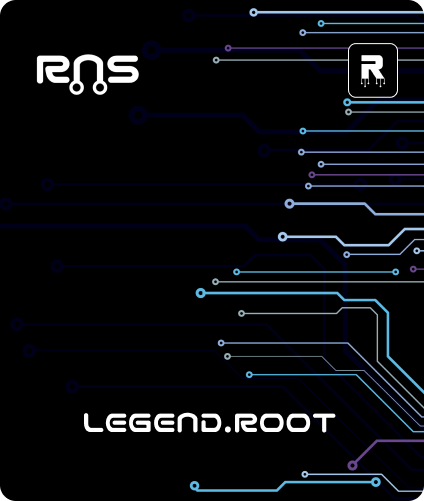
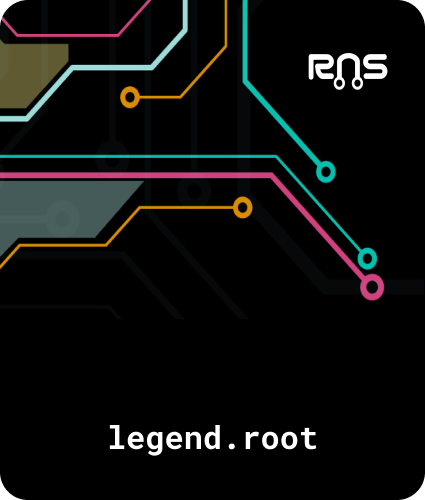
implement v4 changes

diff --git a/src/app/components/Sections/SendAndReceive/Transaction.tsx b/src/app/components/Sections/SendAndReceive/Transaction.tsx
@@ -29,7 +29,7 @@ import {
 
 export const Transaction: React.FC = () => {
   const [amount, setAmount] = useState("");
-  const [futurePass, setFuturePass] = useState("Legend.ROOT");
+  const [futurePass, setFuturePass] = useState("legend.root");
 
   return (
     <PageSection>
@@ -77,6 +77,7 @@ export const Transaction: React.FC = () => {
                   </InputPlaceholder>
                   <InputField
                     id="FuturePass"
+                    disabled // remove this if wanted the form to be interactive
                     type="text"
                     placeholder="FuturePass or Wallet Address"
                     value={futurePass}
@@ -92,6 +93,7 @@ export const Transaction: React.FC = () => {
                   </InputPlaceholder>
                   <InputField
                     id="Amount"
+                    disabled // remove this if wanted the form to be interactive
                     type="text"
                     placeholder="Amount"
                     value={amount}
@@ -104,10 +106,8 @@ export const Transaction: React.FC = () => {
                 </Field>
               </div>
               <FlexRight>
-                <CancelButton>Cancel</CancelButton>
-                <SendButton disabled={amount === "" || futurePass === ""}>
-                  Send
-                </SendButton>
+                <CancelButton disabled>Cancel</CancelButton>
+                <SendButton disabled>Send</SendButton>
               </FlexRight>
             </CardContent>
           </TransactionCard>

diff --git a/src/app/components/Sections/SendAndReceive/StyledTransaction.tsx b/src/app/components/Sections/SendAndReceive/StyledTransaction.tsx
@@ -58,7 +58,7 @@ export const TransactionCard = styled.div`
     background-position: 0 0;
     background-image: conic-gradient(
       transparent,
-      rgba(255, 255, 255, 1),
+      var(--primary),
       transparent 30%
     );
     animation: ${rotate} 4s linear infinite;
@@ -157,9 +157,15 @@ export const SendIcon = styled.i`
 export const SendButton = styled(BaseButton)<{ disabled?: boolean }>`
   border-radius: 24px;
   text-transform: capitalize;
+  color: rgb(255, 255, 255, 0.5);
 
   ${({ disabled }) =>
     disabled ? `background-color: var(--background-main)` : ""};
+
+  &:hover {
+    background-color: var(--background-main);
+    color: rgb(255, 255, 255, 0.5);
+  }
 `;
 
 export const CancelButton = styled(SendButton)`
@@ -168,6 +174,6 @@ export const CancelButton = styled(SendButton)`
 
   &:hover {
     background-color: transparent;
-    color: var(--primary);
+    color: var(--contrast-text);
   }
 `;

diff --git a/src/app/components/Sections/Main/Main.tsx b/src/app/components/Sections/Main/Main.tsx
@@ -35,7 +35,7 @@ export const Main: React.FC = () => {
               Dont be known as 0xFffFFF0000000000000000000000000000D4FR
             </HeadingText>
             <HeadingText>
-              Be known as <HighlightText>LEGEND.ROOT</HighlightText>
+              Be known as <HighlightText>legend.root</HighlightText>
             </HeadingText>
             <SearchButton>Search Now</SearchButton>
           </Content>
